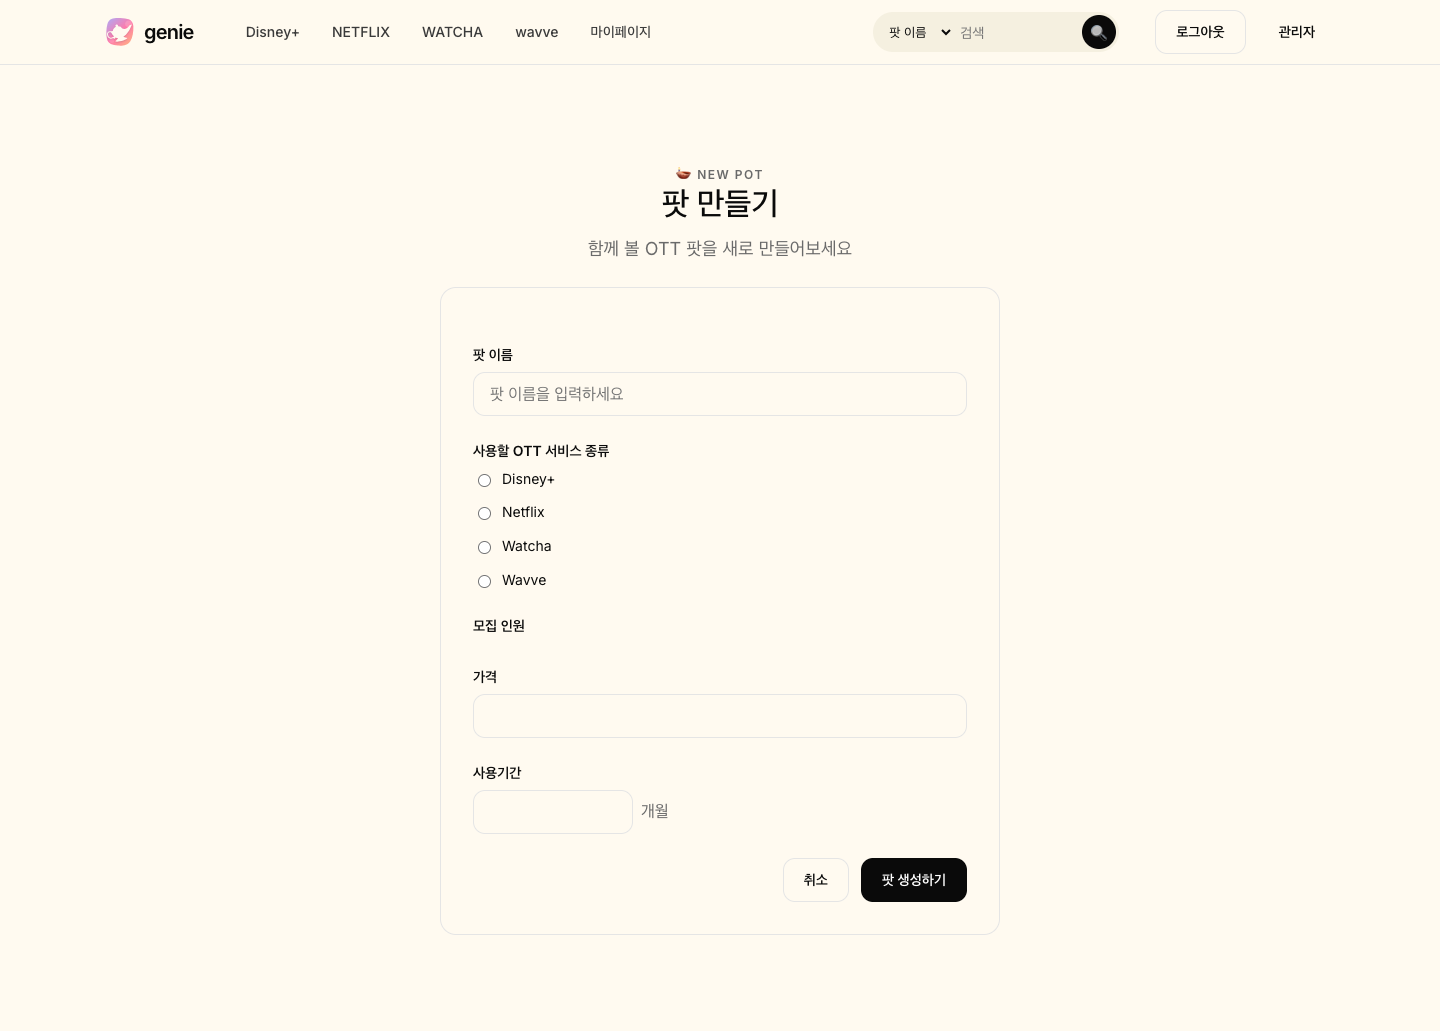
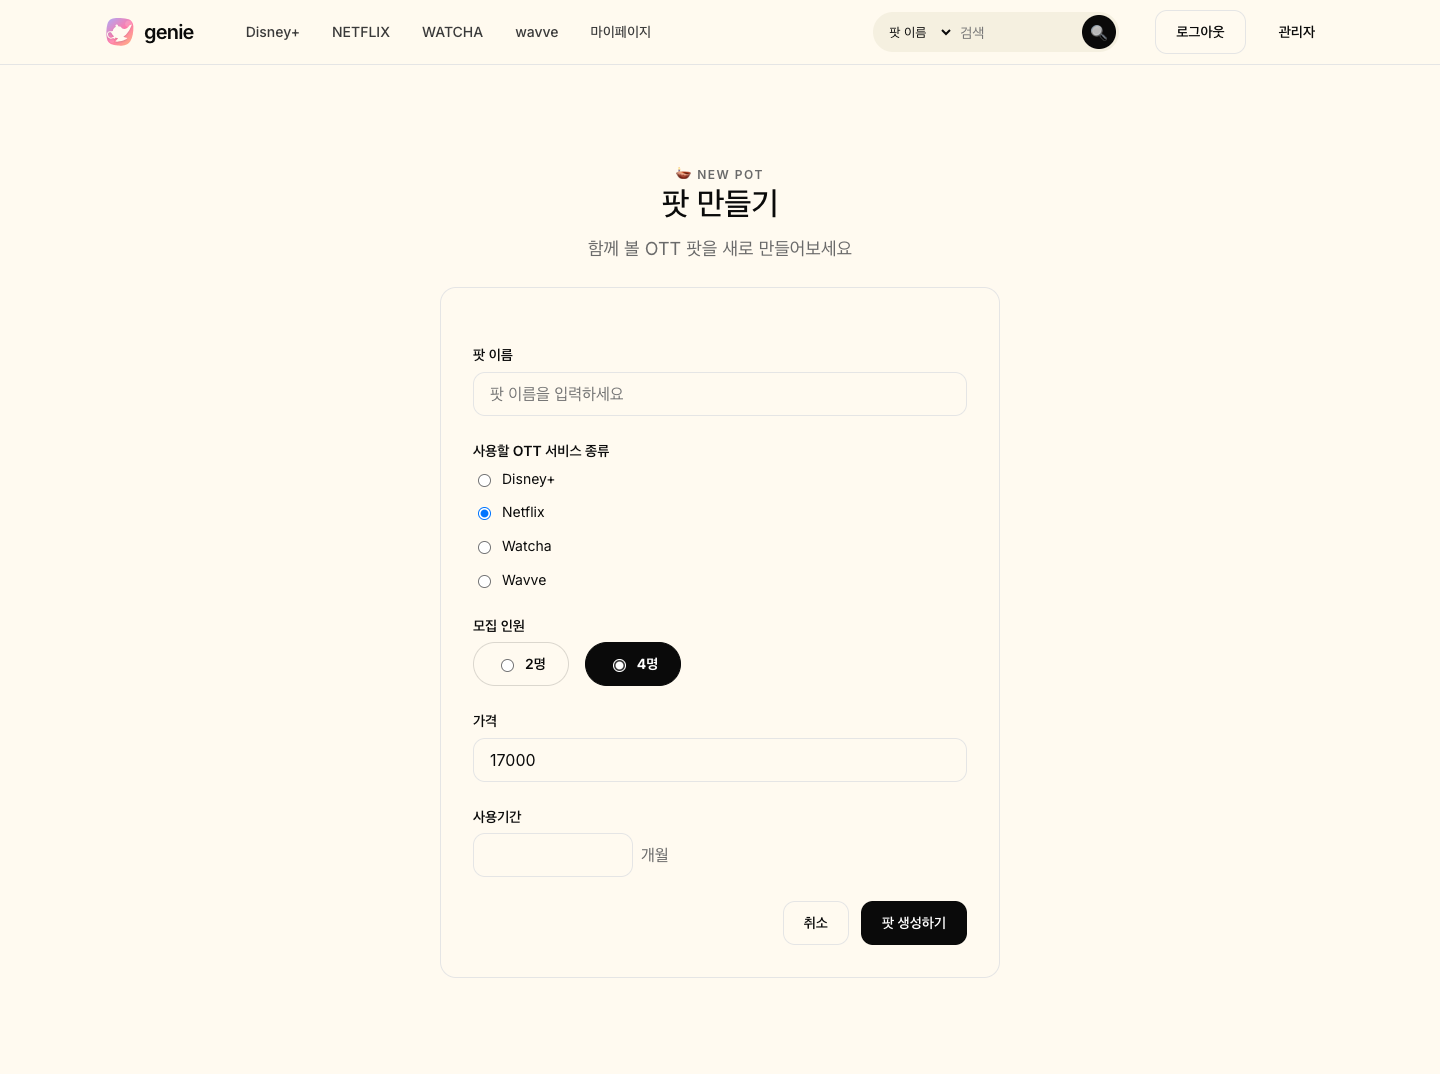
[ALL] docs: 채팅 캡쳐 이모지 교체 및 팟 만들기 모집인원 보완

diff --git a/src/main/resources/templates/chat/chatMain.html b/src/main/resources/templates/chat/chatMain.html
@@ -153,7 +153,7 @@
 <div class="chat-shell">
     <div id="chat" class="chat-panel">
         <div class="chat-header">
-            <span class="chat-header__emoji">💬</span>
+            <span class="chat-header__emoji">🧞</span>
             <span class="chat-header__title">채팅</span>
         </div>
         <div id="chatBox"></div>